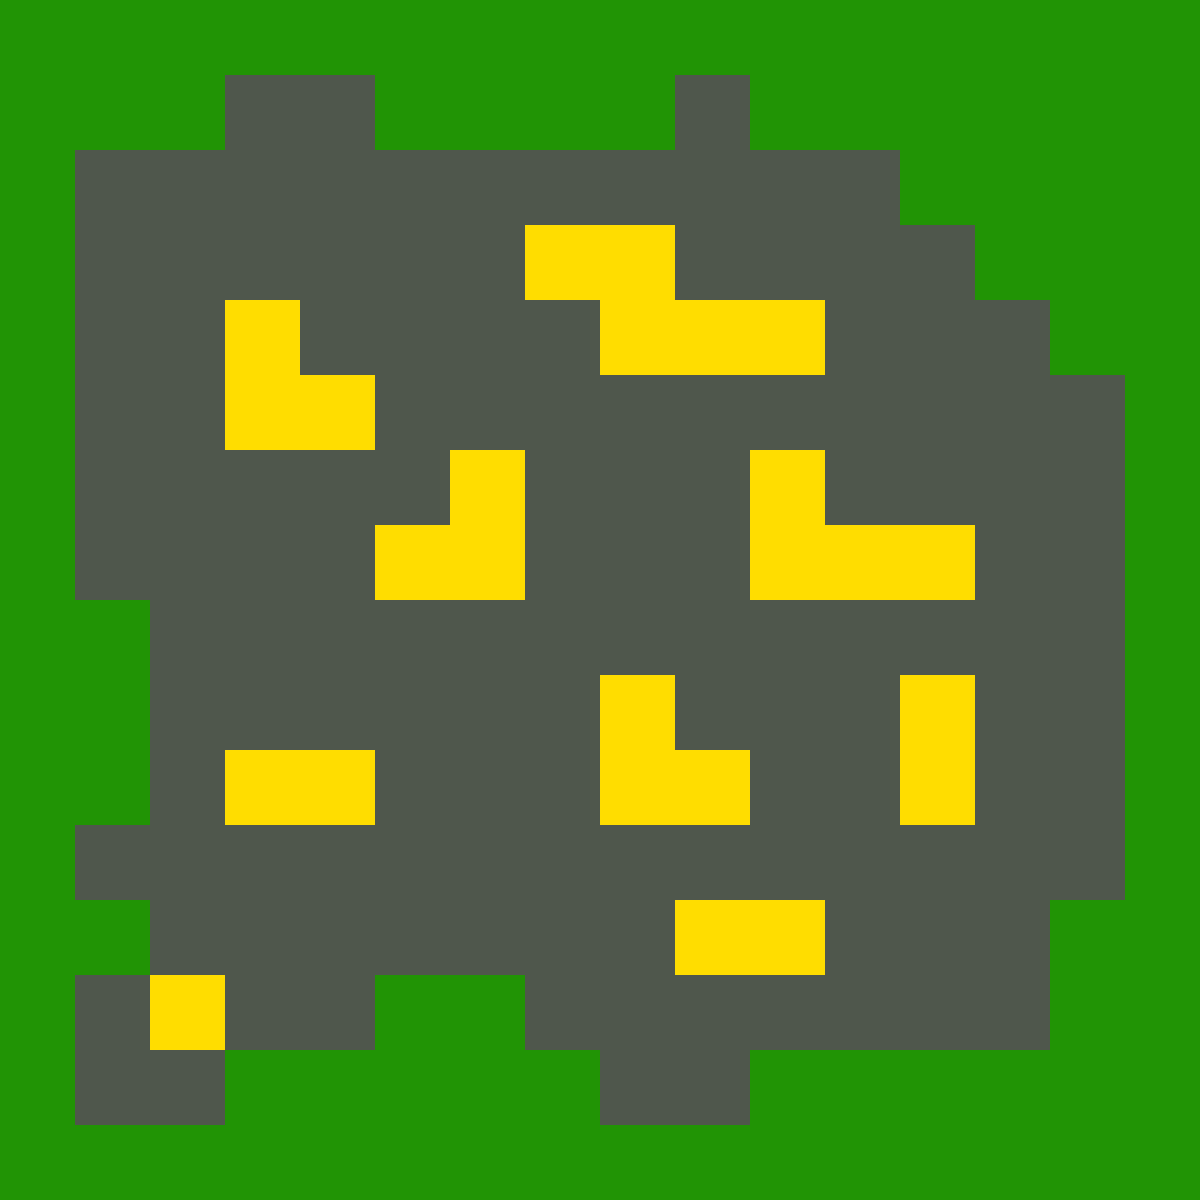
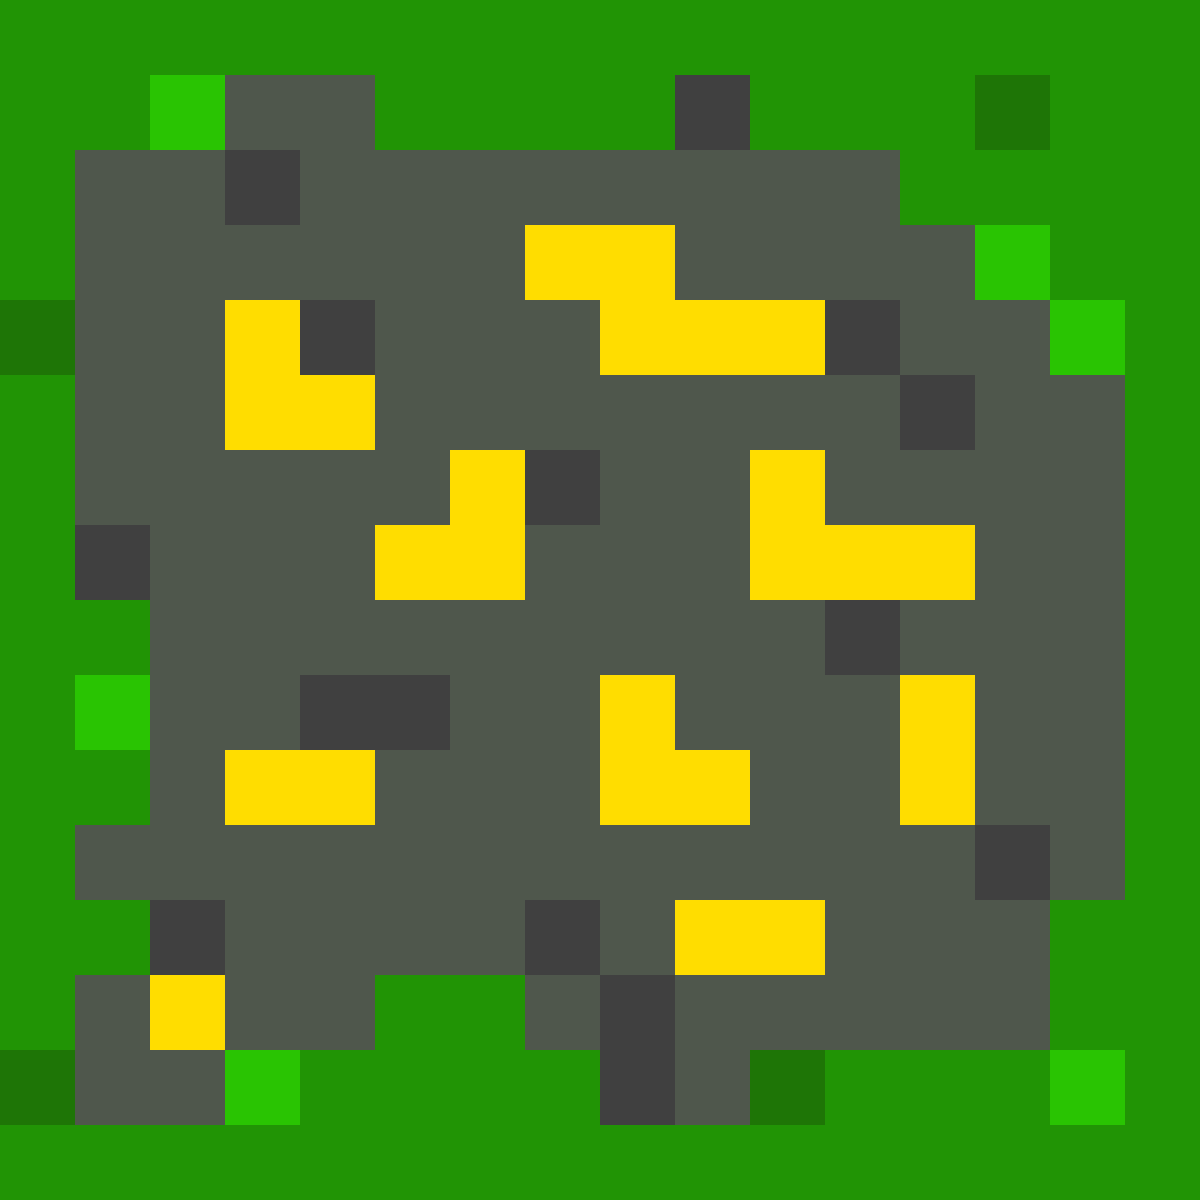
collision and new tiles

diff --git a/src/tile/TileManager.java b/src/tile/TileManager.java
@@ -13,18 +13,18 @@ import main.GamePanel;
 public class TileManager {
     
     GamePanel gp;
-    Tile[] tile;
-    int mapTileNum[][];
+    public Tile[] tile;
+    public int mapTileNum[][];
     
     public TileManager(GamePanel gp) {
         
         this.gp = gp;
         
-        tile = new Tile[10];
+        tile = new Tile[30];
         mapTileNum = new int [gp.maxWorldCol][gp.maxWorldRow];
         
         getTileImage();
-        loadMap("/maps/map5050.txt");
+        loadMap("/maps/map50100.txt");
         
     }
     
@@ -40,24 +40,84 @@ public class TileManager {
             
             tile[2] = new Tile();
             tile[2].image = ImageIO.read(getClass().getResourceAsStream("/tiles/water.png"));
+            tile[2].collision = true;
             
             tile[3] = new Tile();
             tile[3].image = ImageIO.read(getClass().getResourceAsStream("/tiles/tree.png"));
-            
+            tile[3].collision = true;
+                    
             tile[4] = new Tile();
             tile[4].image = ImageIO.read(getClass().getResourceAsStream("/tiles/stone.png"));
+            tile[4].collision = true;
             
             tile[5] = new Tile();
             tile[5].image = ImageIO.read(getClass().getResourceAsStream("/tiles/coal.png"));
+            tile[5].collision = true;
             
             tile[6] = new Tile();
             tile[6].image = ImageIO.read(getClass().getResourceAsStream("/tiles/iron.png"));
+            tile[6].collision = true;
             
             tile[7] = new Tile();
             tile[7].image = ImageIO.read(getClass().getResourceAsStream("/tiles/gold.png"));
+            tile[7].collision = true;
             
             tile[8] = new Tile();
             tile[8].image = ImageIO.read(getClass().getResourceAsStream("/tiles/sandwater.png"));
+            
+            tile[9] = new Tile();
+            tile[9].image = ImageIO.read(getClass().getResourceAsStream("/tiles/hole.png"));
+            
+            tile[10] = new Tile();
+            tile[10].image = ImageIO.read(getClass().getResourceAsStream("/tiles/frontwall.png"));
+            tile[10].collision = true;
+            
+            tile[11] = new Tile();
+            tile[11].image = ImageIO.read(getClass().getResourceAsStream("/tiles/backwall.png"));
+            tile[11].collision = true;
+            
+            tile[12] = new Tile();
+            tile[12].image = ImageIO.read(getClass().getResourceAsStream("/tiles/leftwall.png"));
+            tile[12].collision = true;
+            
+            tile[13] = new Tile();
+            tile[13].image = ImageIO.read(getClass().getResourceAsStream("/tiles/rightwall.png"));
+            tile[13].collision = true;
+            
+            tile[14] = new Tile();
+            tile[14].image = ImageIO.read(getClass().getResourceAsStream("/tiles/chest.png"));
+            tile[14].collision = true;
+            
+            tile[15] = new Tile();
+            tile[15].image = ImageIO.read(getClass().getResourceAsStream("/tiles/chestonfloor.png"));
+            tile[15].collision = true;
+            
+            tile[16] = new Tile();
+            tile[16].image = ImageIO.read(getClass().getResourceAsStream("/tiles/furnaceoff.png"));
+            tile[16].collision = true;
+            
+            tile[17] = new Tile();
+            tile[17].image = ImageIO.read(getClass().getResourceAsStream("/tiles/furnaceon.png"));
+            tile[17].collision = true;
+            
+            tile[18] = new Tile();
+            tile[18].image = ImageIO.read(getClass().getResourceAsStream("/tiles/craftingtable.png"));
+            tile[18].collision = true;
+            
+            tile[19] = new Tile();
+            tile[19].image = ImageIO.read(getClass().getResourceAsStream("/tiles/craftingtableonfloor.png"));
+            tile[19].collision = true;
+            
+            tile[20] = new Tile();
+            tile[20].image = ImageIO.read(getClass().getResourceAsStream("/tiles/corpse.png"));
+            
+            tile[21] = new Tile();
+            tile[21].image = ImageIO.read(getClass().getResourceAsStream("/tiles/floor.png"));
+            
+            
+            
+            
+            
             
             
         }catch(IOException e) {

diff --git a/src/main/CollisionChecker.java b/src/main/CollisionChecker.java
@@ -1,0 +1,79 @@
+package main;
+
+import entity.Entity;
+
+
+public class CollisionChecker {
+    GamePanel gp;
+    
+    public CollisionChecker(GamePanel gp) {
+        this.gp = gp;
+        
+    }
+    
+    public void checkTile (Entity entity)  {
+        
+        int entityLeftWorldX = entity.worldX + entity.solidArea.x;
+        int entityRightWorldX =  entity.worldX + entity.solidArea.x + entity.solidArea.width;
+        int entityTopWorldY = entity.worldY + entity.solidArea.y + entity.solidArea.y;
+        int entityBottomWorldY = entity.worldY + entity.solidArea.y + entity.solidArea.height;
+        
+        int entityLeftCol = entityLeftWorldX/gp.tileSize;
+        int entityRightCol = entityRightWorldX/gp.tileSize;
+        int entityTopRow = entityTopWorldY/gp.tileSize;
+        int entityBottomRow = entityBottomWorldY/gp.tileSize;
+        
+        int tileNum1, tileNum2;
+        
+        switch(entity.direction) {
+        case "up":
+                
+            entityTopRow =  (entityTopWorldY - entity.speed)/gp.tileSize;
+            tileNum1 = gp.tileM.mapTileNum[entityLeftCol][entityTopRow];
+            tileNum2 = gp.tileM.mapTileNum[entityRightCol][entityTopRow];
+            if(gp.tileM.tile[tileNum1].collision == true || gp.tileM.tile[tileNum2].collision == true) {
+                entity.collisionOn = true;
+                    
+            }
+                
+            break;
+        case "down":
+               
+            entityBottomRow =  (entityBottomWorldY + entity.speed)/gp.tileSize;
+            tileNum1 = gp.tileM.mapTileNum[entityLeftCol][entityBottomRow];
+            tileNum2 = gp.tileM.mapTileNum[entityRightCol][entityBottomRow];
+            if(gp.tileM.tile[tileNum1].collision == true || gp.tileM.tile[tileNum2].collision == true) {
+                entity.collisionOn = true;
+                    
+            }
+                
+            break;
+        case "left":
+            
+            entityLeftCol = (entityLeftWorldX - entity.speed)/gp.tileSize;
+            tileNum1 = gp.tileM.mapTileNum[entityLeftCol][entityTopRow];
+            tileNum2 = gp.tileM.mapTileNum[entityLeftCol][entityBottomRow];
+            if(gp.tileM.tile[tileNum1].collision == true || gp.tileM.tile[tileNum2].collision == true) {
+                entity.collisionOn = true;
+                    
+            }
+                
+            break;
+        case "right":
+                
+            entityRightCol =  (entityRightWorldX + entity.speed)/gp.tileSize;
+            tileNum1 = gp.tileM.mapTileNum[entityRightCol][entityTopRow];
+            tileNum2 = gp.tileM.mapTileNum[entityRightCol][entityBottomRow];
+            if(gp.tileM.tile[tileNum1].collision == true || gp.tileM.tile[tileNum2].collision == true) {
+                entity.collisionOn = true;
+            
+            }
+            
+            break;        
+                
+        }
+        
+    
+    }
+    
+}

diff --git a/src/entity/Player.java b/src/entity/Player.java
@@ -2,6 +2,7 @@ package entity;
 
 import java.awt.Color;
 import java.awt.Graphics2D;
+import java.awt.Rectangle;
 import java.awt.image.BufferedImage;
 import java.io.IOException;
 
@@ -27,6 +28,12 @@ public class Player extends Entity {
         screenX = gp.screenWidth/2 - (gp.tileSize/2);
         screenY = gp.screenHeight/2 - (gp.tileSize/2);
         
+        solidArea = new Rectangle();
+        solidArea.x = 8;
+        solidArea.y = 16;
+        solidArea.width = 32;
+        solidArea.height = 32;
+        
         
         setDefaultValues();
         getPlayerImage();
@@ -36,8 +43,8 @@ public class Player extends Entity {
     
     public void setDefaultValues() {
         
-        worldX = gp.tileSize * 10;
-        worldY = gp.tileSize * 15;
+        worldX = gp.tileSize * 50;
+        worldY = gp.tileSize * 48;
         speed = 2;
         direction = "down";
     }
@@ -68,19 +75,40 @@ public class Player extends Entity {
             
             if(keyH.upPressed == true) {
             direction = "up";
-            worldY -= speed;
+            
             }
             else if(keyH.downPressed == true) {
             direction = "down";
-            worldY += speed;
+            
             }
             else if(keyH.leftPressed == true) {
             direction = "left";
-            worldX -= speed;
+            
             }
             else if(keyH.rightPressed == true) {
             direction = "right";
-            worldX += speed;
+            
+            }
+            
+            collisionOn = false;
+            gp.cChecker.checkTile(this);
+            
+            if(collisionOn == false) {
+                
+                switch(direction) {
+                case "up":
+                    worldY -= speed;
+                    break;
+                case "down":
+                    worldY += speed;
+                    break;
+                case "left":
+                    worldX -= speed;
+                    break;
+                case "right":
+                    worldX += speed;
+                    break;
+                }
             }
         
             spriteCounter++;

diff --git a/src/main/GamePanel.java b/src/main/GamePanel.java
@@ -24,7 +24,7 @@ public class GamePanel extends JPanel implements Runnable {
     public final int screenWidth = tileSize * maxScreenCol;
     public final int screenHeight = tileSize * maxScreenCol;
     
-    public final int maxWorldCol = 50;
+    public final int maxWorldCol = 100;
     public final int maxWorldRow = 50;
     public final int worldWidth = tileSize * maxWorldCol;
     public final int worldHeight = tileSize * maxWorldRow;
@@ -37,6 +37,8 @@ public class GamePanel extends JPanel implements Runnable {
     KeyHandler keyH = new KeyHandler();
         
     Thread gameThread;
+    
+    public CollisionChecker cChecker = new CollisionChecker(this);
     
     public Player player = new Player(this, keyH);
     

diff --git a/src/entity/Entity.java b/src/entity/Entity.java
@@ -1,6 +1,7 @@
 package entity;
 
 
+import java.awt.Rectangle;
 import java.awt.image.BufferedImage;
 
 public class Entity {
@@ -14,7 +15,8 @@ public class Entity {
     public int spriteCounter = 0;
     public int spriteNum = 1;
     
-
+    public Rectangle solidArea;
+    public boolean collisionOn = false;
     
     
 }
